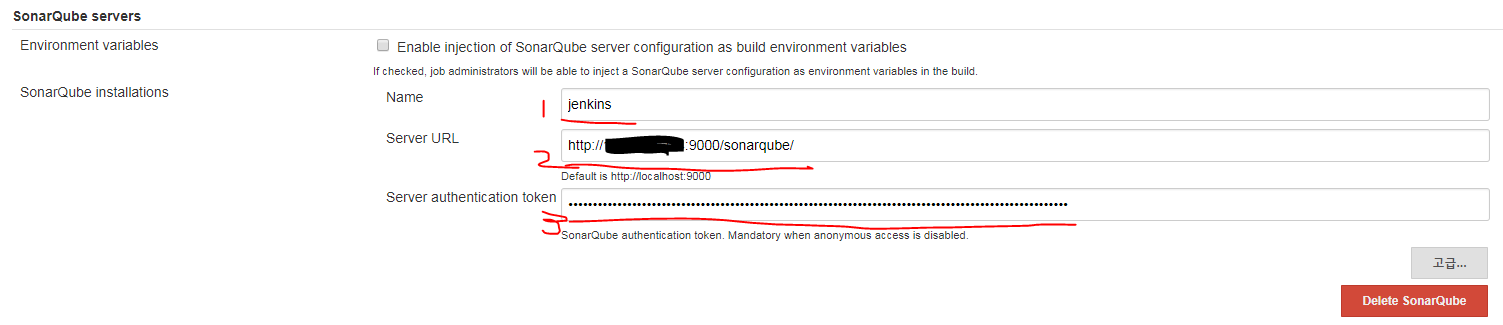
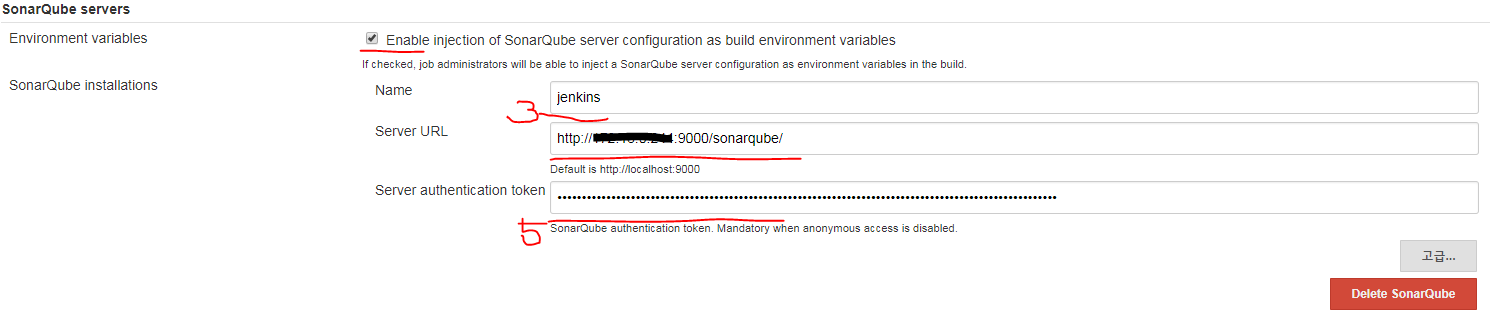
오류 수정

diff --git a/SonarQube/README.md b/SonarQube/README.md
@@ -147,3 +147,11 @@ sonar.java.binaries=target/classes
 
 ```
 
+## troubleshooting
+1. [ERROR] Failed to execute goal org.codehaus.mojo:sonar-maven-plugin:2.6:sonar (default-cli) on project privia-payment: Can not execute SonarQube analysis: Plugin org.codehaus.sonar:sonar-maven3-plugin:6.7.6.38781 or one of its dependencies could not be resolved: Could not find artifact org.codehaus.sonar:sonar-maven3-plugin:jar:6.7.6.38781 in central (http://repo.maven.apache.org/maven2) -> [Help 1]
+
+   > 메이븐 POM.XML 설정에 sonar-maven-plugin 플러그인 셋팅이 되어있는지 확인
+
+1. jobs -> 빌드환경 -> Prepare SonarQube Scanner environment 가 안보일경우
+
+   > jenkins 관리 -> 시스템설정(http://jenkins:8080/jenkins/configure) -> SonarQube servers 세션 ->  	Environment variables -> Enable injection of SonarQube server configuration as build environment variables 체크확인
